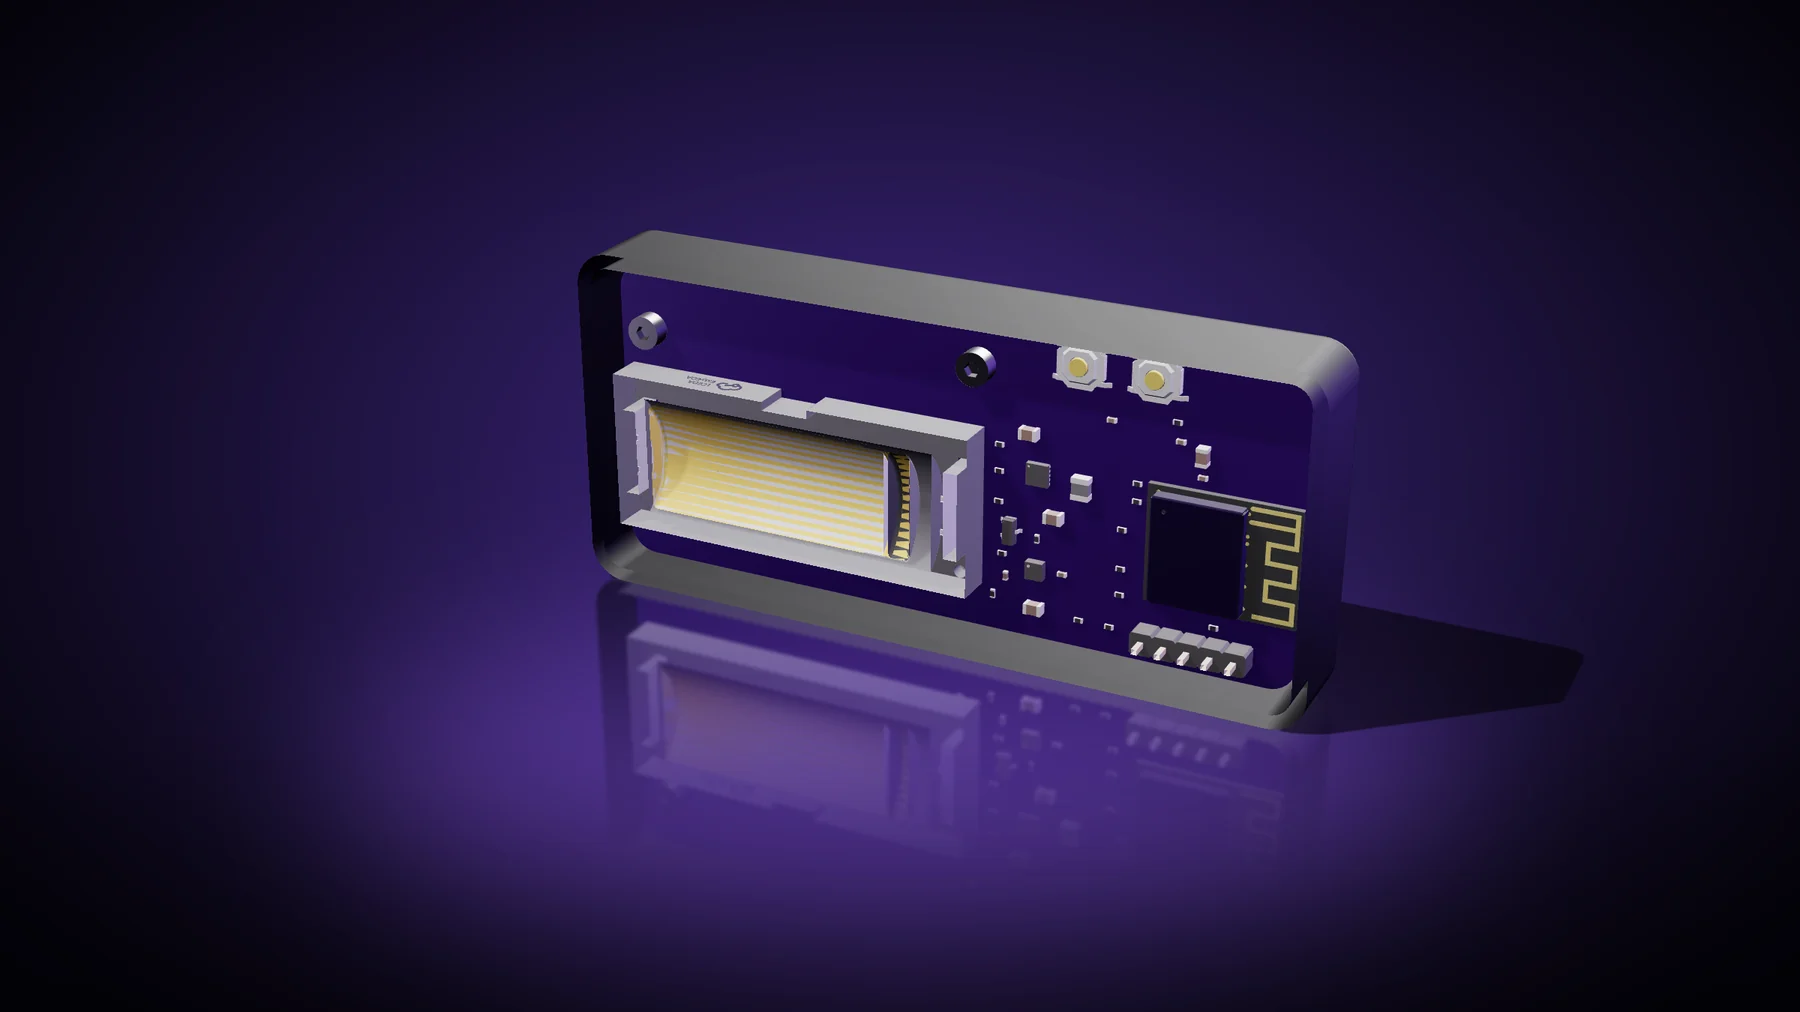
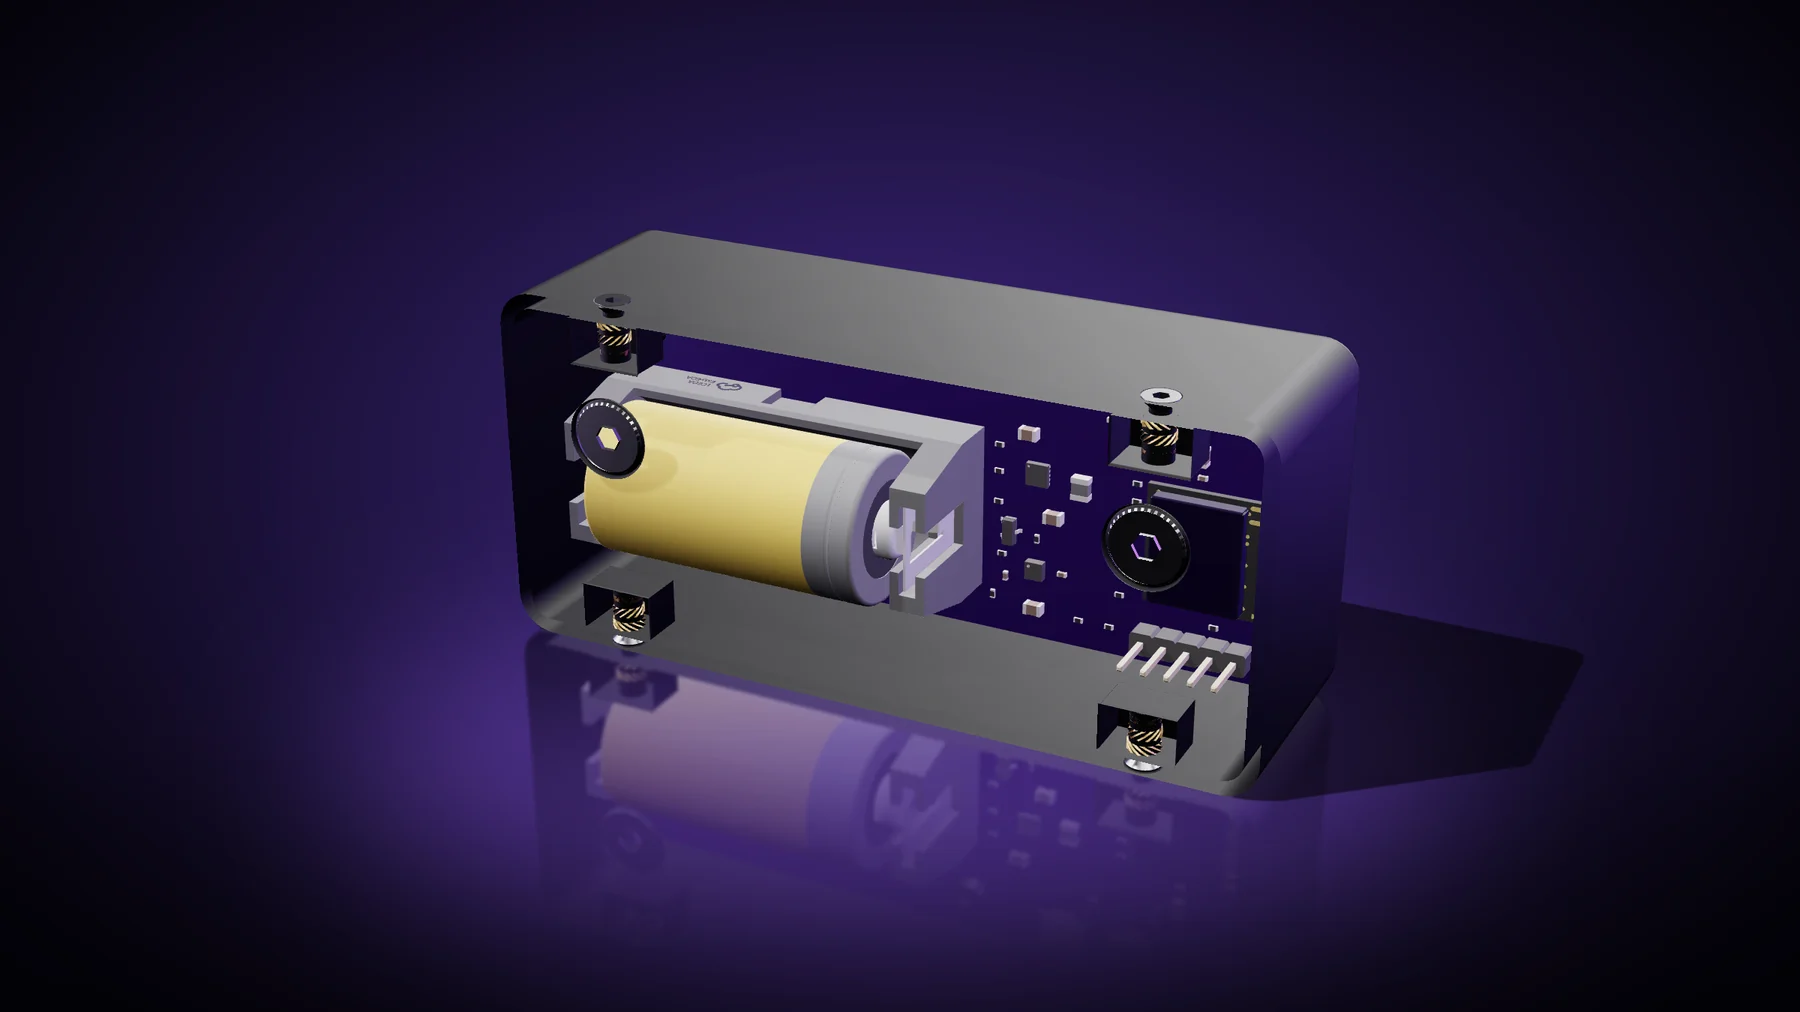
Move the 'Mount it. Forget it.' claim to the carousel, drop the duplicate section, show the whole cell and holder in the cutaway
Claude-Session: https://claude.ai/code/session_017dD8CsxqmC6i7KGPqd1hP3

Changed region(s): [[0.28, 0.2451, 0.8711, 0.7964]]

diff --git a/index.html b/index.html
@@ -112,7 +112,7 @@ section:not(.alt) .card{background:var(--bg2)}
 
 /* carousel */
 .car{background:#000;color:#f5f5f7;padding:clamp(80px,14vw,160px) 0 clamp(60px,10vw,110px);text-align:center;--muted:#a1a1a6}
-.car h2{margin-bottom:40px}
+.car .lead{margin-bottom:40px}
 .car-wrap{position:relative;max-width:1100px;margin:0 auto}
 .track{display:flex;gap:16px;overflow-x:auto;scroll-snap-type:x mandatory;scroll-behavior:smooth;-webkit-overflow-scrolling:touch;scrollbar-width:none}
 .track::before,.track::after{content:'';flex:0 0 max(0px,calc((min(1100px,100vw) - min(860px,88vw))/2 - 16px))}
@@ -132,14 +132,8 @@ section:not(.alt) .card{background:var(--bg2)}
 .dots button.on{background:var(--accent2);transform:scale(1.35)}
 
 
-/* closer */
-.closer{background:#07050f;color:#f5f5f7;padding:clamp(80px,12vw,150px) 0 0;text-align:center;--muted:#a79fc4;overflow:hidden}
-.closer .lead{margin-bottom:0}
-.closer-img{display:block;width:min(1500px,100%);height:auto;margin:clamp(24px,5vw,56px) auto 0;-webkit-mask-image:radial-gradient(ellipse 62% 58% at 50% 50%,#000 55%,transparent 100%);mask-image:radial-gradient(ellipse 62% 58% at 50% 50%,#000 55%,transparent 100%)}
-.closer .rv-img{opacity:0;transform:translateY(50px) scale(.93);transition:opacity 1.2s cubic-bezier(.2,.7,.2,1),transform 1.4s cubic-bezier(.2,.7,.2,1)}
-.closer .rv-img.in{opacity:1;transform:none}
-
-.car .eyebrow,.closer .eyebrow,section.dark .eyebrow{color:#b99cff}
+.car .eyebrow,section.dark .eyebrow{color:#b99cff}
+.car .grad,section.dark .grad{background:linear-gradient(90deg,#b99cff,#f0b8ff);-webkit-background-clip:text;background-clip:text;color:transparent}
 
 /* table */
 table{border-collapse:collapse;width:100%;max-width:720px;margin:48px auto 0;text-align:left}
@@ -153,7 +147,6 @@ footer{padding:40px 0;text-align:center;color:var(--muted);font-size:13px;border
 @media (prefers-reduced-motion:reduce){
   html{scroll-behavior:auto}
   .rv{opacity:1;transform:none;filter:none;transition:none}
-  .closer .rv-img{opacity:1;transform:none;transition:none}
   .step{opacity:1}
   .hero-img{transform:none!important;opacity:1!important;animation:none}
   .float,.glow,.ring,.streak{animation:none}
@@ -225,14 +218,15 @@ footer{padding:40px 0;text-align:center;color:var(--muted);font-size:13px;border
 <section class="car" id="enclosure">
   <div class="wrap">
     <p class="eyebrow rv">Enclosure</p>
-    <h2 class="rv d1">Printed. Bolted. Done.</h2>
+    <h2 class="rv d1">Mount it.<br><span class="grad">Forget it.</span></h2>
+    <p class="lead rv d2">A matte black box, two M4 screws and one CR123A cell. It sleeps until the wind says otherwise.</p>
   </div>
   <div class="car-wrap rv">
     <button class="nav-btn prev" id="prev" aria-label="Previous image">&#8249;</button>
     <div class="track" id="track" tabindex="0" aria-label="Enclosure images">
       <figure class="slide on"><img src="img/slide-1.webp" alt="Closed box, front"><figcaption>Closed: it sits flat on the face of the bar.</figcaption></figure>
       <figure class="slide"><img src="img/slide-2.webp" alt="Back of the box with the two T-nuts" loading="lazy"><figcaption>The back, with the two T-nuts that slide into the slot of the bar.</figcaption></figure>
-      <figure class="slide"><img src="img/slide-3.webp" alt="Cross-section: the board and the CR123A cell inside the box" loading="lazy"><figcaption>Inside, in cross-section: the board and the CR123A cell.</figcaption></figure>
+      <figure class="slide"><img src="img/slide-3.webp" alt="The inside of the box with the back plate removed: the purple board, the CR123A cell in its holder and the brass inserts" loading="lazy"><figcaption>Inside, with the back plate off: the board, the CR123A cell and its holder.</figcaption></figure>
       <figure class="slide"><img src="img/slide-4.webp" alt="The box in clear glass with the board, inserts and screws in place" loading="lazy"><figcaption>The box in clear glass: board, inserts and screws in place.</figcaption></figure>
     </div>
     <button class="nav-btn next" id="next" aria-label="Next image">&#8250;</button>
@@ -260,18 +254,6 @@ footer{padding:40px 0;text-align:center;color:var(--muted);font-size:13px;border
     </table>
     <p class="lead rv">Hold BOOT for 3 seconds at power-up to wipe the stored network. Calibration and bench findings are in the <a data-gh="https://github.com/altrdev/brezza#battery-calibration">README</a>.</p>
   </div>
-</section>
-
-<section class="closer" id="closer">
-  <div class="wrap">
-    <p class="eyebrow rv">Brezza</p>
-    <h2 class="rv d1">Mount it.<br><span class="grad">Forget it.</span></h2>
-    <p class="lead rv d2">A matte black box, two M4 screws and one CR123A cell. It sleeps until the wind says otherwise.</p>
-  </div>
-  <picture>
-    <source type="image/webp" srcset="img/product-1000.webp 1000w, img/product.webp 2000w" sizes="(max-width:1500px) 100vw, 1500px">
-    <img class="closer-img rv-img rv" src="img/product.jpg" width="2000" height="1125" loading="lazy" alt="The Brezza enclosure: a matte black box on a dark reflective surface with a violet glow">
-  </picture>
 </section>
 
 <section class="dark" id="license">
@@ -348,7 +330,7 @@ footer{padding:40px 0;text-align:center;color:var(--muted);font-size:13px;border
 
   var nav=document.getElementById('nav'),heroSec=document.querySelector('.hero');
   function onScroll(){nav.classList.toggle('scrolled',scrollY>8);var under=document.elementsFromPoint(innerWidth/2,26).filter(function(e){return !nav.contains(e)})[0];
-    nav.classList.toggle('ondark',!!(under&&under.closest('.hero,.car,.closer,section.dark')));updHero();updSteps()}
+    nav.classList.toggle('ondark',!!(under&&under.closest('.hero,.car,section.dark')));updHero();updSteps()}
   var tick=false;addEventListener('scroll',function(){if(!tick){tick=true;requestAnimationFrame(function(){onScroll();tick=false})}},{passive:true});
   addEventListener('resize',onScroll);onScroll();
 })();
